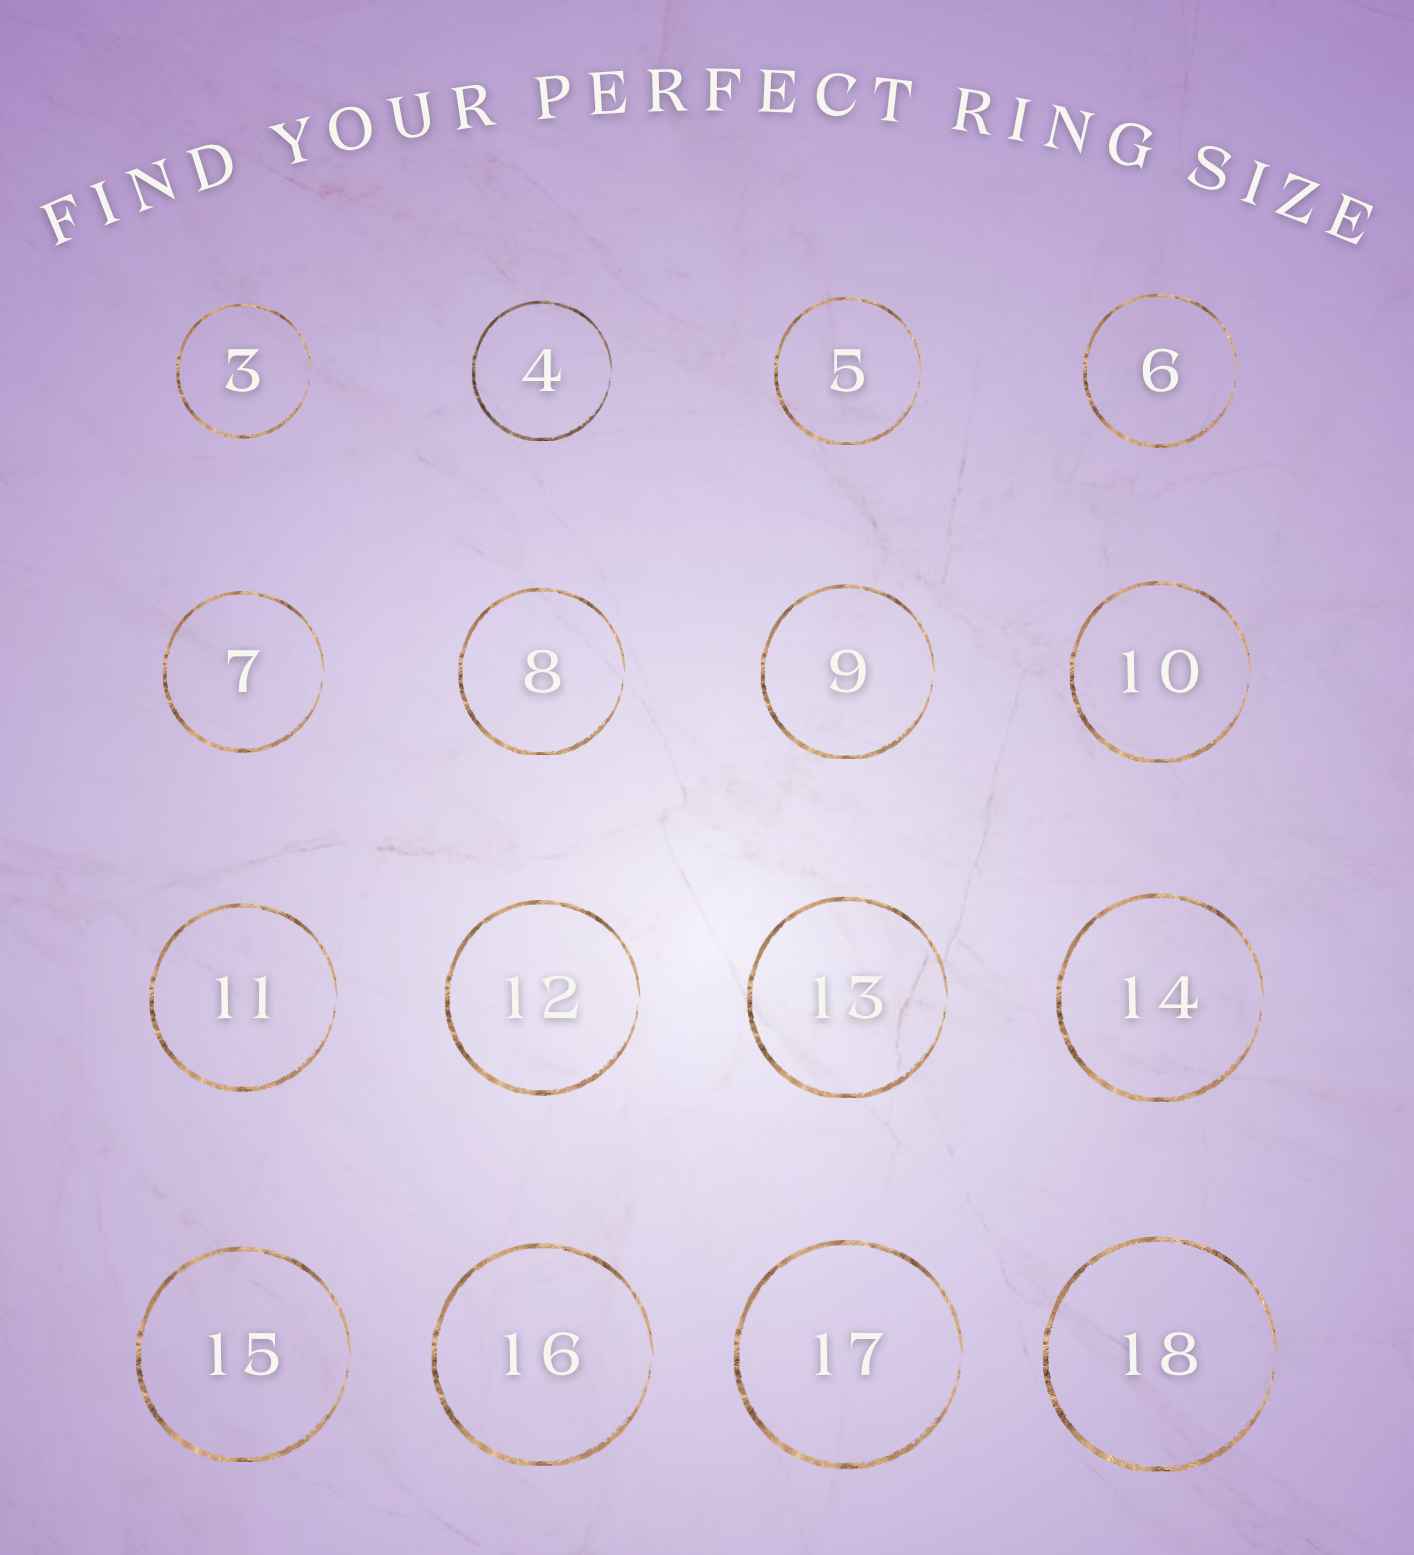
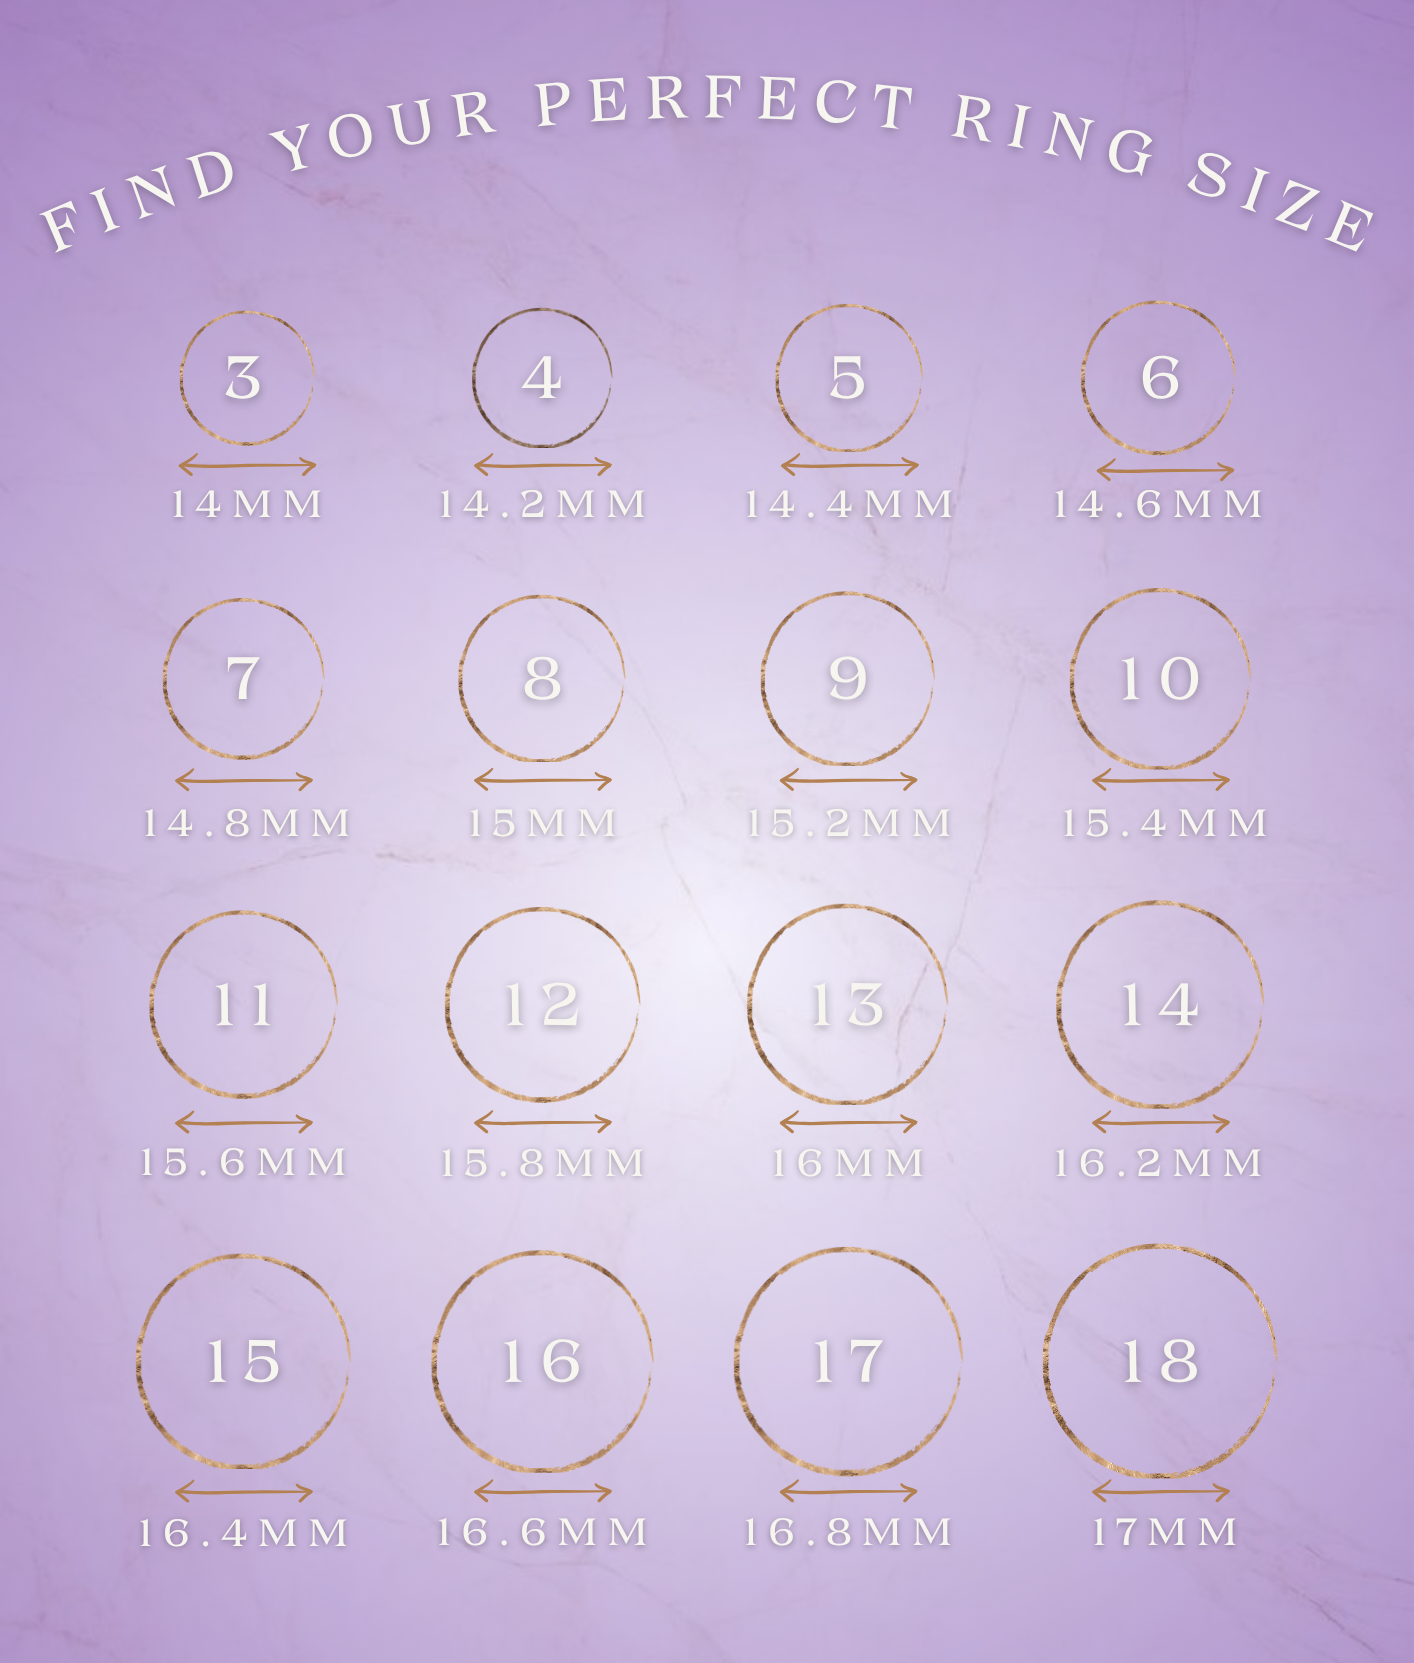
finishim

diff --git a/index.html b/index.html
@@ -64,7 +64,7 @@
                     <h3>Necklace</h3>
                     <p>Our gold necklace is delicately crafted to add a touch of elegance to any outfit.</p>
                     <div class="card-bottom">
-                        <span class="price"> $15.00 us</span>
+                        <span class="price"> $1500.00 us</span>
                         <img class="cart-icon" src="/images/cart.png" alt="cart">
                     </div>
                 </div>
@@ -78,7 +78,7 @@
                     <h3>Bracelet</h3>
                     <p>Our gold bracelet combines simplicity and sophistication for a timeless look.</p>
                     <div class="card-bottom">
-                        <span class="price"> $15.00 us</span>
+                        <span class="price"> $700.00 us</span>
                         <img class="cart-icon" src="/images/cart.png" alt="cart">
                     </div>
                 </div>
@@ -92,7 +92,7 @@
                     <h3>Earrings</h3>
                     <p>These gold earrings are designed to shine beautifully and complement your everyday style.</p>
                     <div class="card-bottom">
-                        <span class="price"> $15.00 us</span>
+                        <span class="price"> $600.00 us</span>
                         <img class="cart-icon" src="/images/cart.png" alt="cart">
                     </div>
                 </div>
@@ -106,7 +106,7 @@
                     <h3>Ring</h3>
                     <p>This gold ring is a symbol of elegance, perfect for both special occasions and daily wear.</p>
                     <div class="card-bottom">
-                        <span class="price"> $15.00 us</span>
+                        <span class="price"> $800.00 us</span>
                         <img class="cart-icon" src="/images/cart.png" alt="cart">
                     </div>
                 </div>

diff --git a/styles.css b/styles.css
@@ -118,7 +118,7 @@ footer {
 }
 
 .about {
-    padding: 40px 20px;
+    padding: 40px 0;
     font-family: 'Rubik', sans-serif;
 }
 .about h2
@@ -210,7 +210,6 @@ footer {
 .product-gallery {
     display: flex;
     gap: 32px;
-    margin-top: 32px;
 }
 .product-gallery img {
     height: 300px;
@@ -225,7 +224,7 @@ footer {
     font-family: 'Rubik', sans-serif;
 }
 .jewelry-list ul {
-    list-style: none; /* מוריד נקודות */
+    list-style: none;
     padding: 0;
 }
 .jewelry-list li {
@@ -243,4 +242,20 @@ footer {
 }
 .jewelry-list span {
     color: black;
+}
+
+
+.ring-size {
+    margin-bottom: 32px;
+    font-family: 'Rubik', sans-serif;
+}
+
+.ring-size h2 {
+    color: #612999;
+}
+
+.ring-size img {
+    width: 100%;
+    max-width: 600px;
+    margin-top: 10px;
 }

diff --git a/jewelry.html b/jewelry.html
@@ -55,6 +55,11 @@
                     </li>
                 </ul>
             </section>
+
+            <section class="ring-size">
+                <h2>Ring Size Guide</h2>
+                <img src="images/ring-size.png" alt="ring-size">
+            </section>
         </main>
 
     <footer>
